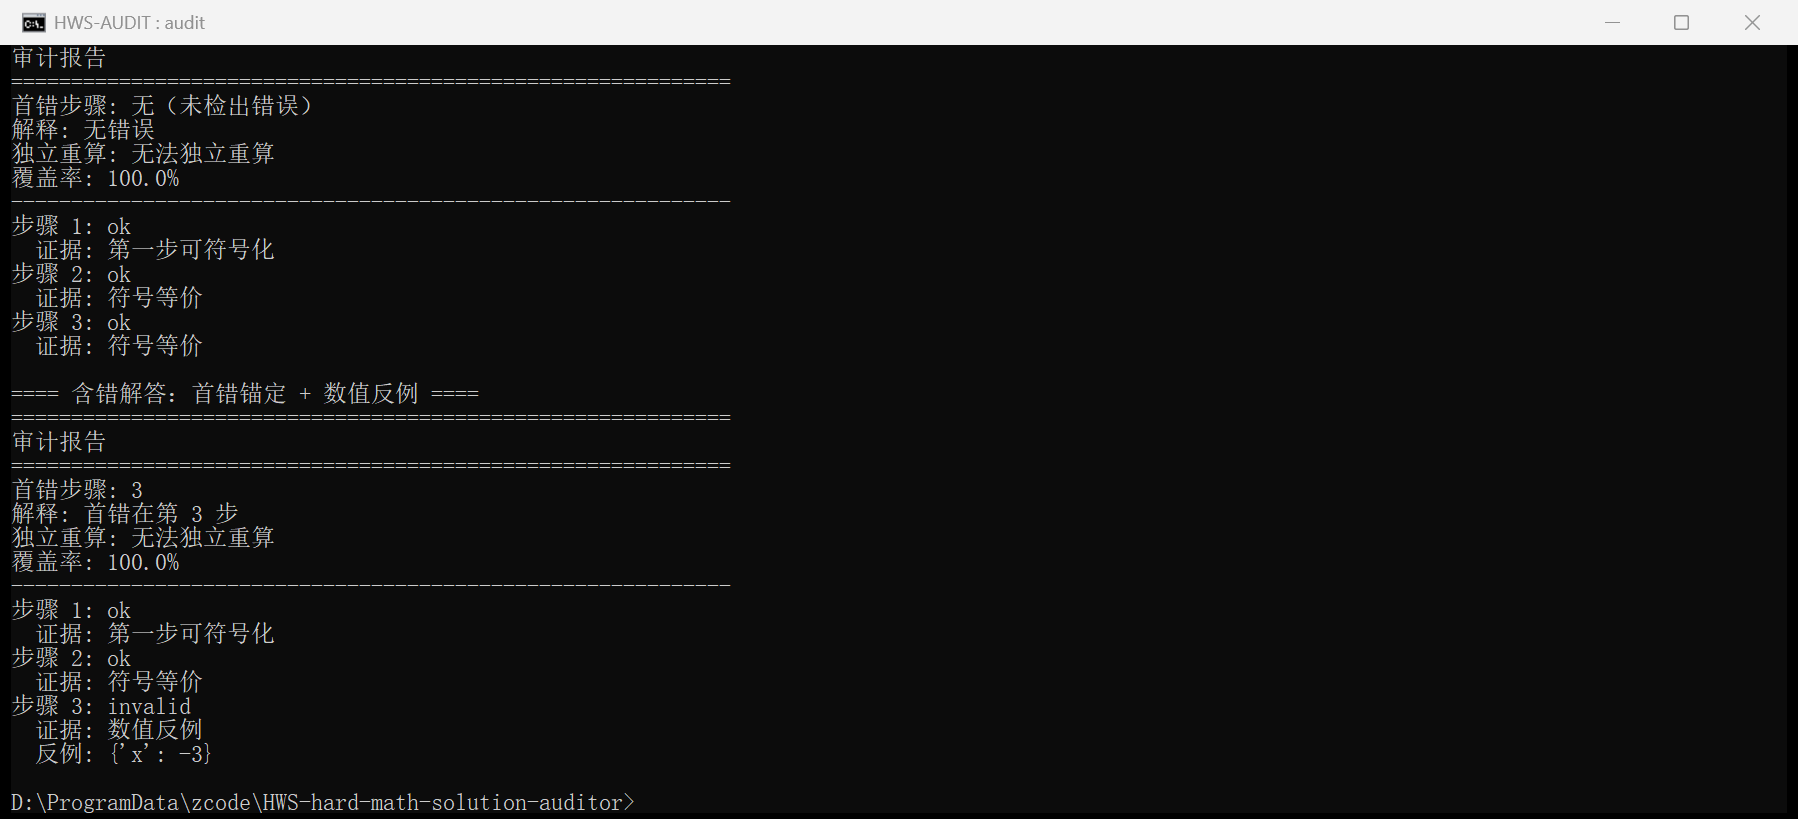
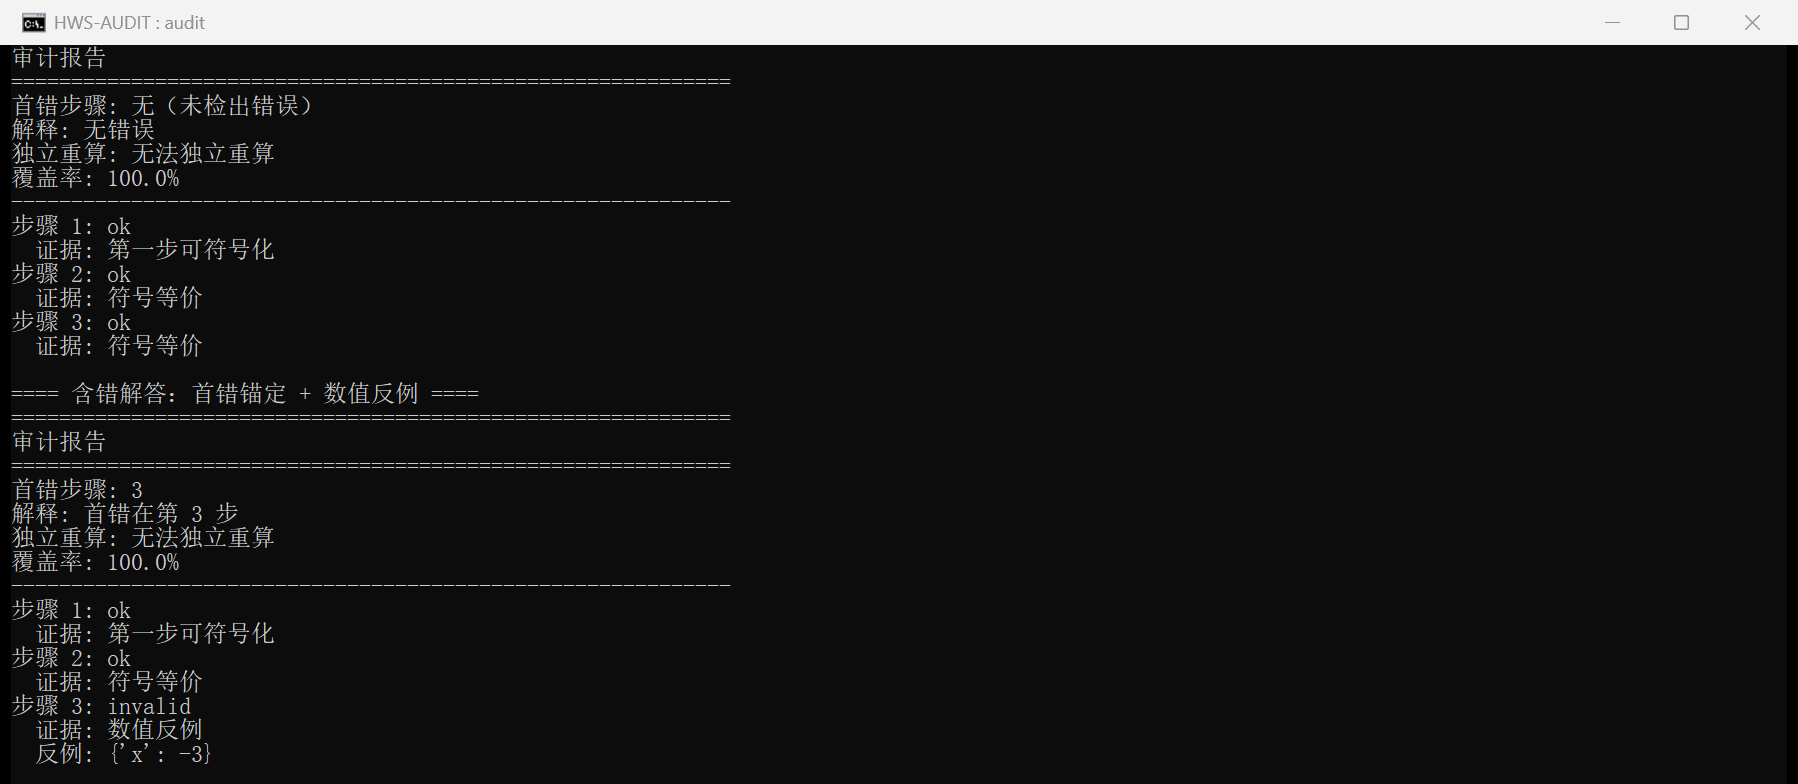
feat(v0.2.0): 报告头打印工具/依据版本 + 规则集 meta.review + CHANGELOG（阶段三 任务 3/4/5）
- 报告头（MD/JSON/HTML/CLI 同源）新增工具版本与依据（阈值表）版本；不带生成时间（同输入同输出）
- data/rules/{thresholds,error_types}.json 写入 meta.review；未进引擎规则补 not_used_by
- tests/test_rules/test_clause_review.py：9 用例守门（含负控已验证会报红）
- __version__ 0.1.0 → 0.2.0 与 pyproject 对齐；pyproject 增加 Changelog URL
- 新增 CHANGELOG.md；README 判定依据表补本次/下次复核列；docs/images/cli-audit.png 去掉本机路径提示行

Changed region(s): [[0.0, 0.0306, 0.4049, 1.0], [0.9655, 0.0306, 0.9967, 0.0612]]

diff --git a/tests/test_rules/test_clause_review.py b/tests/test_rules/test_clause_review.py
@@ -1,0 +1,125 @@
+"""规则集复核元数据守门（阶段三 任务 5）。
+
+字段规范 = ``10-6-scaffold-formwork-checker`` v2.0.0 的实测形态（文件级 ``meta.review``：
+``reviewed_on`` / ``cycle_months`` / ``next_review_due`` / ``reviewer`` / ``standards[]``，
+每条含 ``currency`` 与 ``authority_url``）。
+
+本仓的「规则集定义文件」是 ``data/rules/thresholds.json``（阈值表，K14 三态门控的载体）
+与 ``data/rules/error_types.json``（错误类型与覆盖度分母）。
+
+scaffold 的 5 条用例里，第 4/5 条是它特有的形态，本仓替换为同等强度的两条：
+
+4. 错误类型覆盖度：条目级 ``min_coverage`` 之和必须等于 ``total_min_coverage``
+   （清单类文件的「条目级与汇总一致」对应物）；
+5. ``status != verified`` 的规则必须逐条声明 ``not_used_by``（对应「本版本不依赖」声明）。
+
+另加一条：导出的报告头必须打印工具版本与依据版本（任务 5 的验收第 1 项）。
+
+每条判据被破坏后必须报红 —— 负控记录见 plan/audits 的阶段三交接文档。
+"""
+
+import datetime
+import json
+from pathlib import Path
+
+import pytest
+
+REPO_ROOT = Path(__file__).resolve().parents[2]
+THRESHOLDS = REPO_ROOT / "data" / "rules" / "thresholds.json"
+ERROR_TYPES = REPO_ROOT / "data" / "rules" / "error_types.json"
+
+REQUIRED_REVIEW_KEYS = ("reviewed_on", "cycle_months", "next_review_due", "reviewer",
+                        "standards")
+REQUIRED_STANDARD_KEYS = ("standard", "issued", "effective", "currency",
+                          "authority_url", "conclusion")
+
+RULE_FILES = (THRESHOLDS, ERROR_TYPES)
+
+
+def _load(path):
+    return json.loads(path.read_text(encoding="utf-8"))
+
+
+def _review(path):
+    return (_load(path).get("meta") or {}).get("review") or {}
+
+
+def _date(text):
+    return datetime.datetime.strptime(text, "%Y-%m-%d").date()
+
+
+@pytest.mark.parametrize("path", RULE_FILES, ids=lambda p: p.name)
+def test_rules_files_carry_review_metadata(path):
+    review = _review(path)
+    assert review, "%s 缺 meta.review（阶段三 任务 5 的字段规范）" % path.name
+    for key in REQUIRED_REVIEW_KEYS:
+        assert review.get(key) not in (None, "", []), "meta.review 缺字段：%s" % key
+    assert isinstance(review.get("cycle_months"), int) and review["cycle_months"] > 0
+
+
+@pytest.mark.parametrize("path", RULE_FILES, ids=lambda p: p.name)
+def test_review_dates_are_parsable_and_next_due_after_reviewed_on(path):
+    review = _review(path)
+    reviewed = _date(review["reviewed_on"])
+    due = _date(review["next_review_due"])
+    assert due > reviewed, "next_review_due 必须晚于 reviewed_on"
+    months = (due.year - reviewed.year) * 12 + (due.month - reviewed.month)
+    assert abs(months - review["cycle_months"]) <= 1
+
+
+@pytest.mark.parametrize("path", RULE_FILES, ids=lambda p: p.name)
+def test_review_standards_carry_authority_url(path):
+    standards = _review(path).get("standards") or []
+    assert standards, "%s 的 meta.review.standards 为空 —— 复核没有出处" % path.name
+    for item in standards:
+        for key in REQUIRED_STANDARD_KEYS:
+            assert (item.get(key) or "").strip(), (
+                "%s 的标准 %r 缺 %s" % (path.name, item.get("standard"), key))
+        for part in str(item["authority_url"]).split(";"):
+            if part.strip():
+                assert part.strip().startswith("http"), "authority_url 必须是可访问 URL"
+
+
+def test_error_type_coverage_matches_total():
+    """条目级 min_coverage 之和 == total_min_coverage（汇总与条目不得漂移）。"""
+    payload = _load(ERROR_TYPES)
+    items = payload.get("error_types") or []
+    assert items, "error_types.json 没有条目"
+    assert sum(item["min_coverage"] for item in items) == payload["total_min_coverage"]
+
+
+def test_rules_without_engine_use_declare_not_used_by():
+    """未进引擎（status != verified）的规则必须逐条声明 not_used_by。"""
+    rules = _load(THRESHOLDS).get("rules") or []
+    assert rules
+    inactive = [rule for rule in rules if rule.get("status") != "verified"]
+    assert inactive, "样例应至少有一条未进引擎的规则（THR-005 / THR-006）"
+    for rule in inactive:
+        assert rule.get("not_used_by"), (
+            "规则 %s（status=%s）缺 not_used_by —— 未声明「本版本不依赖」" %
+            (rule.get("id"), rule.get("status")))
+    for rule in rules:
+        if rule.get("status") == "verified":
+            assert not rule.get("not_used_by"), (
+                "verified 规则 %s 不该声明 not_used_by" % rule.get("id"))
+
+
+def test_exported_report_header_shows_tool_and_ruleset_version(tmp_path):
+    """报告头必须可见工具版本与依据版本（任务 5 验收第 1 项）。"""
+    from hws_math_auditor import __version__
+    from hws_math_auditor.model import AuditReport, FirstErrorResult, Step, Verdict
+    from hws_math_auditor.report import render_markdown
+
+    report = AuditReport(
+        steps=[Step(step_no=1, raw_text="x = 1", source_line_start=1, source_line_end=1)],
+        verdicts=[Verdict(status="ok", evidence="可符号化")],
+        first_error=FirstErrorResult(first_error=None),
+        recalc_result="一致",
+        coverage={"total_steps": 1, "normalized": 1, "coverage": 1.0},
+        tool_version=__version__,
+        ruleset_version="1.0.0",
+    )
+    text = render_markdown(report)
+    assert "工具版本" in text and __version__ in text
+    assert "依据（阈值表）" in text and "1.0.0" in text
+    assert "生成时间" not in text, "本仓报告刻意不带生成时间（同输入同输出）"

diff --git a/src/hws_math_auditor/report.py b/src/hws_math_auditor/report.py
@@ -32,6 +32,9 @@ def report_to_dict(report: AuditReport) -> Dict[str, Any]:
         "explanation": report.first_error.explanation,
         "recalc_result": report.recalc_result,
         "coverage": report.coverage,
+        # 报告头（阶段三 任务 5）：工具版本与依据版本；无生成时间（同输入同输出）
+        "tool_version": report.tool_version,
+        "ruleset_version": report.ruleset_version,
         # 步骤号在 Step 上，Verdict 只有判定结果 —— 按位置配对（两者同序）
         "verdicts": [
             {
@@ -55,6 +58,8 @@ def render_markdown(report: AuditReport) -> str:
     lines = [
         "# 难题解答审计报告",
         "",
+        f"- **工具版本**：{data['tool_version'] or '—'}",
+        f"- **依据（阈值表）**：{data['ruleset_version'] or '—'}",
         f"- **首错步骤**：{fe if fe is not None else '无（未检出错误）'}",
         f"- **独立重算**：{data['recalc_result']}",
         f"- **覆盖率**：{data['coverage'].get('coverage', 0):.1%}"
@@ -105,6 +110,8 @@ th{{background:#f6f8fa}}
 .note{{color:#57606a;font-size:.85rem;margin-top:1.5rem}}
 </style></head><body>
 <h1>难题解答审计报告</h1>
+<p class="note">工具版本 {tool_version}；依据（阈值表）{ruleset_version}。<br>
+不打印生成时间：本报告要求同输入同输出、两次运行逐字节一致。</p>
 <div class="summary">
   <div><b>首错步骤</b><br>{fe}</div>
   <div><b>独立重算</b><br>{recalc}</div>
@@ -124,6 +131,8 @@ th{{background:#f6f8fa}}
         coverage="%.1f%%" % (data["coverage"].get("coverage", 0) * 100),
         explanation=html.escape(data["explanation"] or ""),
         rows=rows,
+        tool_version=html.escape(str(data["tool_version"] or "—")),
+        ruleset_version=html.escape(str(data["ruleset_version"] or "—")),
     )
 
 

diff --git a/src/hws_math_auditor/cli.py b/src/hws_math_auditor/cli.py
@@ -58,6 +58,9 @@ def cmd_audit(args):
     # 输出结果
     if args.format == "json":
         output = {
+            # 报告头（阶段三 任务 5）：工具版本与依据版本；无生成时间（同输入同输出）
+            "tool_version": result.report.tool_version,
+            "ruleset_version": result.report.ruleset_version,
             # 对外 1 基（内部 locator 是 0 基）
             "first_error": (
                 None if result.report.first_error.first_error is None
@@ -84,6 +87,8 @@ def cmd_audit(args):
         print("=" * 60)
         print("审计报告")
         print("=" * 60)
+        print(f"工具版本: {result.report.tool_version or '—'}")
+        print(f"依据（阈值表）: {result.report.ruleset_version or '—'}")
         _fe = result.report.first_error.first_error
         print(f"首错步骤: {_fe + 1 if _fe is not None else '无（未检出错误）'}")
         print(f"解释: {result.report.first_error.explanation}")

diff --git a/src/hws_math_auditor/pipeline.py b/src/hws_math_auditor/pipeline.py
@@ -10,6 +10,7 @@ M4: LLM 兜底层集成
 from dataclasses import dataclass
 from typing import Optional
 
+from hws_math_auditor import __version__ as TOOL_VERSION
 from hws_math_auditor.config import config
 from hws_math_auditor.model import AuditReport, FirstErrorResult, Step, Verdict
 from hws_math_auditor.parser import extract_reasoning, split_steps
@@ -109,6 +110,8 @@ def audit(request: AuditRequest) -> AuditResult:
         judgment_semantics=judgment_semantics,
         pending_rules=pending_rules,
         unverified_rules=unverified_rules,
+        tool_version=TOOL_VERSION,
+        ruleset_version=get_threshold_table().version,
     )
 
     # 退出码：检出错误 → 1

diff --git a/src/hws_math_auditor/model/__init__.py b/src/hws_math_auditor/model/__init__.py
@@ -55,3 +55,7 @@ class AuditReport:
     judgment_semantics: dict = field(default_factory=dict)  # 判定语义验证结果
     pending_rules: list = field(default_factory=list)  # 待核对规则列表
     unverified_rules: list = field(default_factory=list)  # 未验证规则列表
+    # 报告头（阶段三 任务 5）：工具版本与依据（阈值表）版本。
+    # 刻意不设「生成时间」—— 报告要「同输入同输出」，两次运行必须逐字节一致。
+    tool_version: str = ""
+    ruleset_version: str = ""

diff --git a/src/hws_math_auditor/__init__.py b/src/hws_math_auditor/__init__.py
@@ -5,7 +5,7 @@ HWS-hard-math-solution-auditor — 难题解答步骤级审计与错误定位器
 模型接入：可插拔显式开关，默认关闭。
 """
 
-__version__ = "0.1.0"
+__version__ = "0.2.0"
 __all__ = [
     "__version__",
     "model",

diff --git a/plan/RELEASE-M8.md b/plan/RELEASE-M8.md
@@ -1,0 +1,68 @@
+# plan/RELEASE-M8.md — v0.2.0 发布留档
+
+> 仓库：`yuluo554/hard-math-solution-auditor`
+> 里程碑：M8（规则集复核元数据 + 报告头版本 + CHANGELOG）
+> 留档日期：2026-10-19
+
+本文件在 **tag 之前**写好并进 tag 树；发布后产生的事实若与 tag 时点不同，另列「tag 后追加事实」。
+
+---
+
+## 一、tag 时点事实
+
+| 项 | 值 |
+|---|---|
+| 版本 | `v0.2.0` |
+| 发布形态 | 源码仓库 + CLI/GUI 双 exe + 源码包 + `sha256sums.txt` + `demo.gif` |
+| 变更范围 | 报告头版本字段、规则集 `meta.review` 元数据、守门测试、文档；**不动验证/定位/重算算法** |
+| 测试 | 185 passed（v0.1.1 为 176，新增 9 条 `tests/test_rules/test_clause_review.py`） |
+| 构建 | `py -3.12 -m PyInstaller tools/pyinstaller-{cli,gui}.spec --clean`（本仓文档既定的构建命令） |
+
+---
+
+## 二、变更清单
+
+| # | 项 | 说明 |
+|---|---|---|
+| 1 | **报告头版本** | Markdown / JSON / HTML 与 CLI 文本四处同源打印「工具版本」与「依据（阈值表）版本」；**刻意不带生成时间**（同输入同输出、两次运行逐字节一致） |
+| 2 | **规则集复核元数据** | `data/rules/thresholds.json` 与 `data/rules/error_types.json` 写入 `meta.review`（复核日 / 周期 / 下次到期 / 复核人 / `standards[]` 含 `currency` 与 `authority_url`）；`status != verified` 的两条规则（THR-005/THR-006）逐条补 `not_used_by` |
+| 3 | **守门测试** | `tests/test_rules/test_clause_review.py` 9 个用例；进 CI（`python -m pytest tests/ -q`） |
+| 4 | **版本对齐** | 包内 `__version__` 由 `0.1.0` → `0.2.0`（此前与发布版本 `0.1.1` 不一致，报告头一旦打印工具版本就会自相矛盾） |
+| 5 | **文档** | 新增 `CHANGELOG.md`；README「判定依据」表增加本次/下次复核列；`DEVELOPMENT.md` 补 M8 行与版本号 |
+
+---
+
+## 三、发布物与校验和（tag 时点写入）
+
+| 附件 | 大小 | sha256 |
+|---|---|---|
[2 lines of base64/hex data omitted]
+
+> 本轮构建由 `py -3.12 -m PyInstaller` 完成（本仓文档既定的构建命令）；
+> exe 含构建期 PE 时间戳，同机两次构建哈希即不同，承诺的是「同一棵树 → 同一产物语义」。
+
+---
+
+## 四、已知边界（未变）
+
+- 符号化覆盖有限，`unsymbolizable` 如实登记，不判 ok；
+- 模型开关默认关；数值结论永远来自确定性规则；
+- 公开题库回归集为扩展项，首期不交付；
+- PyInstaller 产物不承诺跨机字节一致（台账记本次上传件哈希）；
+- 报告不带生成时间 —— 这是刻意的可复现性取舍，已在 README 写明。
+
+---
+
+## 五、tag 后追加事实
+
+**Release 附件**（`gh release view v0.2.0 --json assets` 回读）与真下载复核记录见本文件发布后的追加提交。
+
+| 附件 | 大小 | sha256 |
+|---|---|---|
+| `hws-audit-cli-win64.exe` | 见实测表 | 见实测表 |
+| `hws-audit-gui-win64.exe` | 见实测表 | 见实测表 |
+| `hws-audit-source-v0.2.0.zip` | 见实测表 | 见实测表 |
+| `demo.gif` | 见实测表 | 见实测表 |
+
+> 实际哈希以 `dist/sha256sums.txt` 与 Release 附件回读为准。

diff --git a/CHANGELOG.md b/CHANGELOG.md
@@ -1,0 +1,70 @@
+# Changelog
+
+本项目的版本分两层：
+
+- **代码版本**（本文件）：修 bug、加功能、改发布形态
+- **规则集版本**：阈值表 `data/rules/*.json` 的版本与所依据的口径及其生效日期
+
+> 阈值/判定语义发生变化时，主版本号 +1，并在发布说明中提示「历史报告需重跑」。
+
+## [0.2.0] - 2026-10-19
+
+### 新增
+
+- **报告头打印版本**：Markdown / JSON / HTML 三种报告与 CLI 文本输出统一打印
+  **工具版本**与**依据（阈值表）版本**。四种形态同源（`report_to_dict()`），
+  **刻意不打印生成时间** —— 报告承诺「同输入同输出」，两次运行逐字节一致。
+- **规则集复核元数据** `meta.review`：`data/rules/thresholds.json` 与
+  `data/rules/error_types.json` 各自写入复核日 / 复核周期 / 下次复核到期 / 复核人 /
+  `standards[]`（含 `currency` 与 `authority_url`）。阈值表中 `status != verified` 的
+  规则逐条补 `not_used_by`（声明本版本不进引擎）。
+- **守门测试** `tests/test_rules/test_clause_review.py`：9 个用例（元数据齐全 / 日期可解析且
+  到期晚于复核日 / `authority_url` 非空且为 URL / 错误类型条目级 `min_coverage` 之和等于汇总 /
+  未进引擎规则必须声明 `not_used_by` / 报告头可见工具版本与依据版本）。
+
+### 变更
+
+- `pyproject.toml`：`[project.urls]` 增加 `Changelog`。
+
+### 修复
+
+- 包内 `__version__` 与 `pyproject.toml` 的 `version` 对齐（此前 `__version__` 停在 `0.1.0`，
+  而发布版本是 `0.1.1`；报告头一旦打印工具版本就会自相矛盾）。
+
+### 规则集
+
+- **无变更**。当前依据：阈值表 `1.0.0`（生效 2026-10-16，11 条中 9 verified / 2 pending）、
+  错误类型覆盖度分母（8 类，`min_coverage` 之和 18 = `total_min_coverage`）。
+- 本次只加复核元数据与报告头字段，**不改任何阈值、不改判定语义**。
+
+### 是否需要重跑历史报告
+
+**否。** 判定结论与 v0.1.1 一致；报告差异仅为头部新增两行版本信息。
+
+### 校验和
+
+```
+<pending>  hws-audit-cli-win64.exe
+<pending>  hws-audit-gui-win64.exe
+<pending>  hws-audit-source-v0.2.0.zip
+<pending>  demo.gif
+```
+
+## [0.1.1] - 2026-10-18
+
+回访修复：报告导出（`report.py` 单一渲染源 + CLI `--report/--report-formats` + GUI 导出按钮）、
+首错编号对外统一 1 基、覆盖率键名修复、技术报告与演示 GIF 落仓。179 → 176+12 用例。
+留档见 [plan/RELEASE-M7.md](plan/RELEASE-M7.md)。
+
+### 规则集
+
+- 无变更。当前依据：阈值表 `1.0.0`（生效 2026-10-16）
+
+## [0.1.0] - 2026-10-16
+
+首个发布版本：步骤级审计 + 首错锚定 + 三级判定语义 + 独立重算交叉验证 + 22 份植入真值基准。
+
+### 规则集
+
+- 当前依据：阈值表 `1.0.0`（生效 2026-10-16，9 verified / 2 pending）
+- 真值台账 `data/benchmarks/BENCH-001..022`、LLM 兜底快照 `data/snapshots/`（模型默认关）

diff --git a/DEVELOPMENT.md b/DEVELOPMENT.md
@@ -16,6 +16,7 @@
 | M3 知识与规则层 / M4 LLM 兜底层 / M5 内置基准 | [plan/00-README总览.md](plan/00-README总览.md)、[plan/03-基准套件设计.md](plan/03-基准套件设计.md) |
 | M6 交付与发布（v0.1.0） | [plan/RELEASE-M6.md](plan/RELEASE-M6.md) |
 | M7 回访修复（v0.1.1） | [plan/RELEASE-M7.md](plan/RELEASE-M7.md) |
+| M8 元数据与报告头（v0.2.0） | [CHANGELOG.md](CHANGELOG.md)（规则集 `meta.review` + 报告头版本） |
 
 DoD 明细与逐项证据在 [plan/04-测试与验收.md](plan/04-测试与验收.md)；
 M6/M7 的 push/run 对账分别在两份 RELEASE 文件的第五节。
@@ -86,7 +87,7 @@ py -3.12 -m PyInstaller tools/pyinstaller-gui.spec --clean
 
 | 项 | 值 |
 | --- | --- |
-| 版本 | `v0.1.1`（包版本 `0.1.1`，`pyproject.toml`） |
+| 版本 | `v0.2.0`（包版本 `0.2.0`，`pyproject.toml`） |
 | 发布留档 | [plan/RELEASE-M6.md](plan/RELEASE-M6.md)、[plan/RELEASE-M7.md](plan/RELEASE-M7.md) |
 | 校验 | `plan/05-发布与交付.md` 的 `check_release.py` 口径（0 FAIL 为发布终态） |
 
